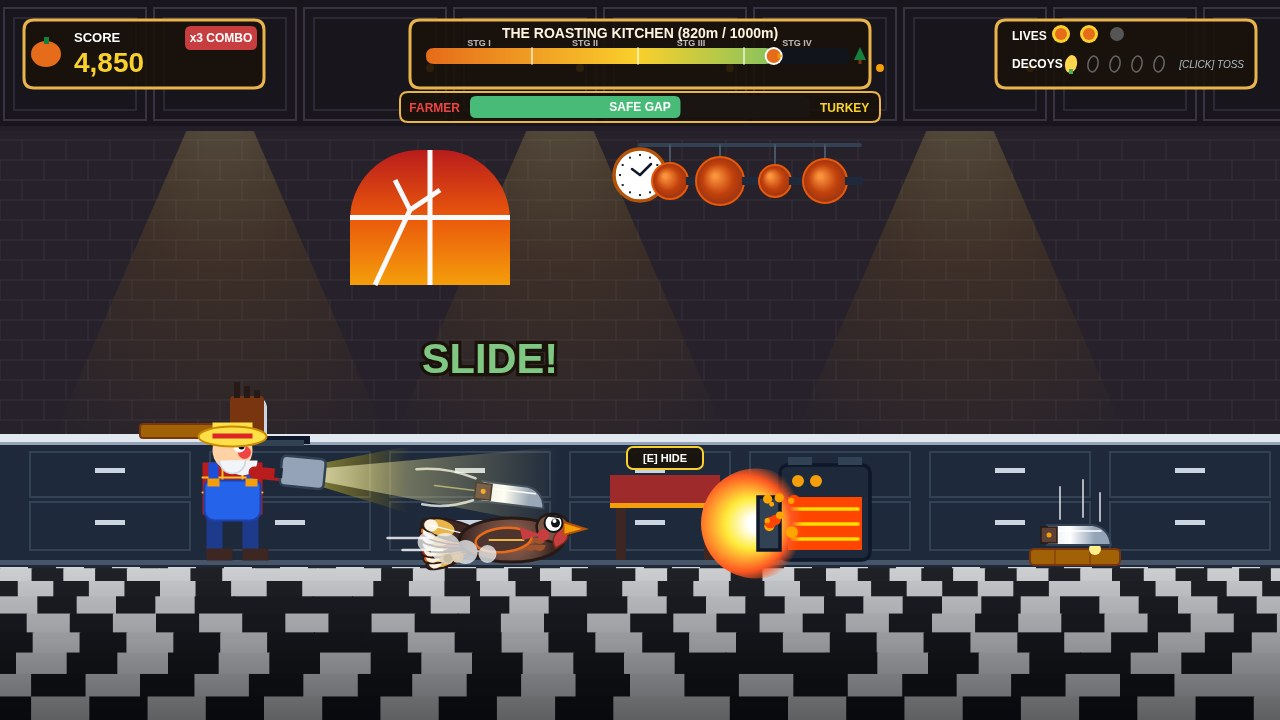
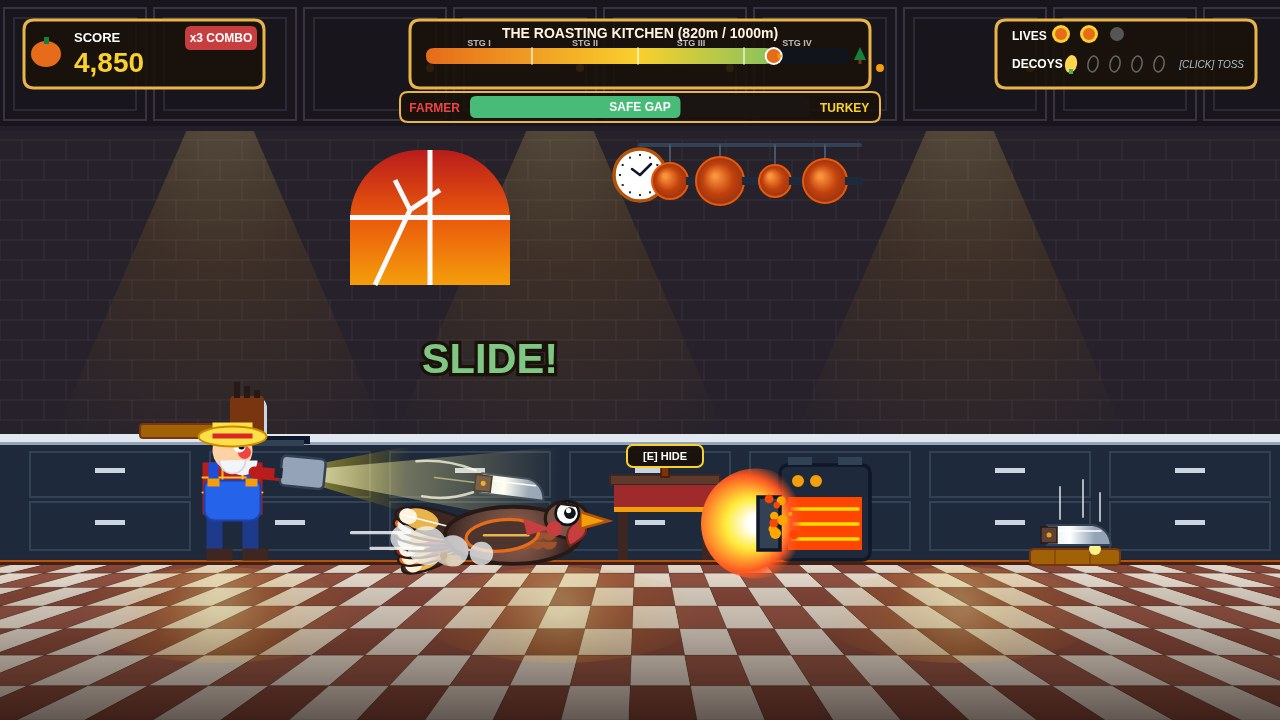
Kitchen perspective floor, end-screen tablecloth, larger sliding turkey

Changed region(s): [[0.0, 0.6111, 1.0, 1.0]]

diff --git a/game/src/screens.js b/game/src/screens.js
@@ -597,18 +597,19 @@ export function createScreens() {
       ctx.restore();
 
       // 3. Banquet Table Surface (y: tableY to FIELD.height)
-      // Linen tablecloth gradient
+      // Warm Linen tablecloth with gradient
       const tableGrad = ctx.createLinearGradient(0, tableY, 0, FIELD.height);
       tableGrad.addColorStop(0, '#FFFBEB');
-      tableGrad.addColorStop(0.3, '#FEF3C7');
-      tableGrad.addColorStop(1, '#FDE68A');
+      tableGrad.addColorStop(0.35, '#FDE68A');
+      tableGrad.addColorStop(0.75, '#F59E0B');
+      tableGrad.addColorStop(1, '#D97706');
       ctx.fillStyle = tableGrad;
       ctx.fillRect(0, tableY, FIELD.width, FIELD.height - tableY);
 
-      // Damask jacquard diamond weave pattern on tablecloth
-      ctx.strokeStyle = 'rgba(217, 119, 6, 0.10)';
-      ctx.lineWidth = 1;
-      for (let d = -FIELD.height; d < FIELD.width; d += 32) {
+      // Clearly visible diamond weave / jacquard plaid pattern in warm orange/terracotta
+      ctx.strokeStyle = 'rgba(180, 83, 9, 0.32)';
+      ctx.lineWidth = 2.5;
+      for (let d = -FIELD.height; d < FIELD.width + 400; d += 36) {
         ctx.beginPath();
         ctx.moveTo(d, tableY);
         ctx.lineTo(d + 400, tableY + 400);
@@ -616,6 +617,22 @@ export function createScreens() {
         ctx.beginPath();
         ctx.moveTo(d + 400, tableY);
         ctx.lineTo(d, tableY + 400);
+        ctx.stroke();
+      }
+
+      // Secondary fine plaid check lines
+      ctx.strokeStyle = 'rgba(234, 88, 12, 0.22)';
+      ctx.lineWidth = 1.5;
+      for (let tx = 0; tx < FIELD.width; tx += 36) {
+        ctx.beginPath();
+        ctx.moveTo(tx, tableY);
+        ctx.lineTo(tx, FIELD.height);
+        ctx.stroke();
+      }
+      for (let ty = tableY; ty < FIELD.height; ty += 28) {
+        ctx.beginPath();
+        ctx.moveTo(0, ty);
+        ctx.lineTo(FIELD.width, ty);
         ctx.stroke();
       }
 
@@ -637,6 +654,31 @@ export function createScreens() {
       // Silver Candelabra on far left
       const canX = 85;
       const canY = tableY + 60;
+
+      // Soft warm radial candle-glow gradient on tablecloth surface
+      const candleTableGlow = ctx.createRadialGradient(canX + 30, canY - 20, 15, canX + 220, canY + 120, 520);
+      candleTableGlow.addColorStop(0, 'rgba(254, 240, 138, 0.60)');
+      candleTableGlow.addColorStop(0.35, 'rgba(245, 158, 11, 0.30)');
+      candleTableGlow.addColorStop(0.7, 'rgba(217, 119, 6, 0.12)');
+      candleTableGlow.addColorStop(1, 'rgba(217, 119, 6, 0)');
+      ctx.fillStyle = candleTableGlow;
+      ctx.fillRect(0, tableY, FIELD.width, FIELD.height - tableY);
+
+      // Rich table shading gradient toward bottom edge
+      const tableShade = ctx.createLinearGradient(0, tableY + 80, 0, FIELD.height);
+      tableShade.addColorStop(0, 'rgba(69, 26, 3, 0)');
+      tableShade.addColorStop(0.5, 'rgba(69, 26, 3, 0.24)');
+      tableShade.addColorStop(1, 'rgba(42, 15, 8, 0.60)');
+      ctx.fillStyle = tableShade;
+      ctx.fillRect(0, tableY + 80, FIELD.width, FIELD.height - (tableY + 80));
+
+      // Drop shadows under candelabra and dishes
+      ctx.fillStyle = 'rgba(30, 10, 5, 0.38)';
+      ctx.beginPath();
+      ctx.ellipse(canX, canY + 16, 36, 12, 0, 0, Math.PI * 2);
+      ctx.fill();
+
+      // Candelabra metal body
       ctx.fillStyle = '#CBD5E1';
       ctx.fillRect(canX - 4, canY - 50, 8, 50);
       ctx.fillRect(canX - 25, canY - 30, 50, 6);
@@ -646,14 +688,6 @@ export function createScreens() {
       ctx.fillRect(canX - 25, canY - 65, 4, 20);
       ctx.fillRect(canX - 2, canY - 70, 4, 20);
       ctx.fillRect(canX + 21, canY - 65, 4, 20);
-
-      // Radial candle glow spreading across the banquet table
-      const candleTableGlow = ctx.createRadialGradient(canX, canY - 60, 15, canX + 200, canY + 100, 420);
-      candleTableGlow.addColorStop(0, 'rgba(254, 240, 138, 0.28)');
-      candleTableGlow.addColorStop(0.4, 'rgba(245, 158, 11, 0.12)');
-      candleTableGlow.addColorStop(1, 'rgba(245, 158, 11, 0)');
-      ctx.fillStyle = candleTableGlow;
-      ctx.fillRect(0, tableY, FIELD.width, FIELD.height - tableY);
 
       // Candle flames
       for (let fx of [canX - 23, canX, canX + 23]) {
@@ -669,10 +703,12 @@ export function createScreens() {
       }
 
       // Golden Gravy Boat with ladle at x = 165, y = 585
-      ctx.fillStyle = 'rgba(0, 0, 0, 0.14)';
+      // Drop shadow
+      ctx.fillStyle = 'rgba(30, 10, 5, 0.38)';
       ctx.beginPath();
-      ctx.ellipse(175, 595, 50, 14, 0, 0, Math.PI * 2);
+      ctx.ellipse(175, 604, 56, 16, 0, 0, Math.PI * 2);
       ctx.fill();
+
       ctx.fillStyle = '#D97706';
       ctx.beginPath();
       ctx.ellipse(175, 582, 50, 20, 0, 0, Math.PI * 2);
@@ -688,10 +724,12 @@ export function createScreens() {
       ctx.fill();
 
       // Autumn Roast Veggies Platter at x = 430, y = 595
-      ctx.fillStyle = 'rgba(0, 0, 0, 0.15)';
+      // Drop shadow
+      ctx.fillStyle = 'rgba(30, 10, 5, 0.38)';
       ctx.beginPath();
-      ctx.ellipse(430, 606, 68, 18, 0, 0, Math.PI * 2);
+      ctx.ellipse(430, 614, 76, 20, 0, 0, Math.PI * 2);
       ctx.fill();
+
       ctx.fillStyle = '#E2E8F0';
       ctx.beginPath();
       ctx.ellipse(430, 595, 68, 22, 0, 0, Math.PI * 2);
@@ -710,10 +748,12 @@ export function createScreens() {
       ctx.fillRect(436, 576, 26, 7);
 
       // Large Pumpkin Pie with whipped cream swirl at x = 625, y = 590
-      ctx.fillStyle = 'rgba(0, 0, 0, 0.15)';
+      // Drop shadow
+      ctx.fillStyle = 'rgba(30, 10, 5, 0.38)';
       ctx.beginPath();
-      ctx.ellipse(625, 602, 60, 18, 0, 0, Math.PI * 2);
+      ctx.ellipse(625, 608, 66, 18, 0, 0, Math.PI * 2);
       ctx.fill();
+
       ctx.fillStyle = '#92400E';
       ctx.beginPath();
       ctx.ellipse(625, 592, 58, 20, 0, 0, Math.PI * 2);
@@ -731,10 +771,12 @@ export function createScreens() {
       ctx.fill();
 
       // Sparkling Cider Mug at x = 725, y = 555
-      ctx.fillStyle = 'rgba(0, 0, 0, 0.14)';
+      // Drop shadow
+      ctx.fillStyle = 'rgba(30, 10, 5, 0.35)';
       ctx.beginPath();
-      ctx.ellipse(735, 596, 20, 8, 0, 0, Math.PI * 2);
+      ctx.ellipse(735, 600, 26, 10, 0, 0, Math.PI * 2);
       ctx.fill();
+
       ctx.fillStyle = '#E2E8F0';
       ctx.fillRect(723, 545, 24, 45);
       ctx.fillStyle = '#F59E0B';
@@ -752,9 +794,9 @@ export function createScreens() {
       const platterY = 485;
 
       // Soft shadow under platter
-      ctx.fillStyle = 'rgba(0, 0, 0, 0.22)';
+      ctx.fillStyle = 'rgba(30, 10, 5, 0.40)';
       ctx.beginPath();
-      ctx.ellipse(platterX, platterY + 16, 165, 28, 0, 0, Math.PI * 2);
+      ctx.ellipse(platterX, platterY + 18, 172, 32, 0, 0, Math.PI * 2);
       ctx.fill();
 
       // Large Polished Silver Platter

diff --git a/game/src/backgrounds.js b/game/src/backgrounds.js
@@ -655,52 +655,82 @@ export function createBackgrounds() {
     // ==========================================
     drawGround(ctx, width, height, groundY, scrollX, theme) {
       if (theme === 'kitchen') {
-        // True Perspective Checkered Floor (shrinking towards back, darker towards foreground)
+        // True Perspective Checkered Floor (converging to vanishing point, shrinking towards counter, darker towards bottom)
         const totalH = height - groundY;
-        const rows = 9;
+        const vpX = width / 2; // 640
+        const vpY = groundY - 140; // 430
+        const distBottom = height - vpY; // 290
+        const rows = 8;
+        const colWBottom = 68;
+        const offset = ((scrollX * 0.45) % colWBottom + colWBottom) % colWBottom;
 
+        // Draw quadrilateral tiles row by row from back to front
         for (let r = 0; r < rows; r++) {
-          // Perspective depth progress: 0 at back (groundY), 1 at bottom (height)
-          const p1 = r / rows;
-          const p2 = (r + 1) / rows;
-          // Exponential perspective spacing: smaller in distance, larger up close
-          const y1 = groundY + Math.pow(p1, 1.35) * totalH;
-          const y2 = groundY + Math.pow(p2, 1.35) * totalH;
-          const rowHeight = y2 - y1;
+          const t1 = Math.pow(r / rows, 1.8);
+          const t2 = Math.pow((r + 1) / rows, 1.8);
+          const y1 = groundY + t1 * totalH;
+          const y2 = groundY + t2 * totalH;
 
-          // Tile width also expands with perspective
-          const tileW = 28 + p1 * 34;
-          const offset = (scrollX * (0.8 + p1 * 0.4)) % (tileW * 2);
+          const ratio1 = (y1 - vpY) / distBottom;
+          const ratio2 = (y2 - vpY) / distBottom;
 
-          for (let x = -offset - tileW * 2; x < width + tileW * 2; x += tileW) {
-            const col = Math.floor((x + offset) / tileW);
-            const isWhite = (col + r) % 2 === 0;
+          // Muted warm tile colours: cream and terracotta
+          const creamColor = r % 2 === 0 ? '#EFE4D6' : '#E8DDD0';
+          const terracottaColor = r % 2 === 0 ? '#965545' : '#88493B';
 
-            // Shaded perspective: tiles get darker towards bottom, avoiding harsh contrast
-            if (isWhite) {
-              const lum = Math.floor(226 - p1 * 60);
-              ctx.fillStyle = `rgb(${lum}, ${lum + 2}, ${lum + 6})`;
-            } else {
-              const lum = Math.floor(36 - p1 * 22);
-              ctx.fillStyle = `rgb(${lum}, ${lum + 2}, ${lum + 8})`;
-            }
-            ctx.fillRect(x, y1, tileW + 1, rowHeight + 1);
+          // Span from offscreen-left to offscreen-right
+          const minCol = Math.floor((-vpX) / (colWBottom * ratio2)) - 2;
+          const maxCol = Math.ceil((width - vpX) / (colWBottom * ratio2)) + 2;
+
+          for (let c = minCol; c <= maxCol; c++) {
+            const isCream = ((c + r) % 2 + 2) % 2 === 0;
+            ctx.fillStyle = isCream ? creamColor : terracottaColor;
+
+            const x1L = vpX + (c * colWBottom - offset) * ratio1;
+            const x1R = vpX + ((c + 1) * colWBottom - offset) * ratio1;
+            const x2R = vpX + ((c + 1) * colWBottom - offset) * ratio2;
+            const x2L = vpX + (c * colWBottom - offset) * ratio2;
+
+            ctx.beginPath();
+            ctx.moveTo(x1L, y1);
+            ctx.lineTo(x1R, y1);
+            ctx.lineTo(x2R, y2);
+            ctx.lineTo(x2L, y2);
+            ctx.closePath();
+            ctx.fill();
+
+            // Subtle grout line between tiles
+            ctx.strokeStyle = 'rgba(60, 30, 20, 0.15)';
+            ctx.lineWidth = 1;
+            ctx.stroke();
           }
         }
 
-        // Perspective shadow overlay towards bottom of screen
-        const floorShadow = ctx.createLinearGradient(0, groundY, 0, height);
-        floorShadow.addColorStop(0, 'rgba(0, 0, 0, 0.05)');
-        floorShadow.addColorStop(0.5, 'rgba(0, 0, 0, 0.22)');
-        floorShadow.addColorStop(1, 'rgba(0, 0, 0, 0.45)');
-        ctx.fillStyle = floorShadow;
+        // Darkening gradient overlay toward the bottom edge
+        const floorDarken = ctx.createLinearGradient(0, groundY, 0, height);
+        floorDarken.addColorStop(0, 'rgba(25, 12, 8, 0.02)');
+        floorDarken.addColorStop(0.45, 'rgba(25, 12, 8, 0.25)');
+        floorDarken.addColorStop(1, 'rgba(15, 6, 4, 0.62)');
+        ctx.fillStyle = floorDarken;
         ctx.fillRect(0, groundY, width, totalH);
 
+        // Soft warm reflections of the 3 ceiling lamp pools on the floor
+        for (let lx of [220, 560, 960]) {
+          const lampGlow = ctx.createRadialGradient(lx, groundY + 45, 10, lx, groundY + 55, 140);
+          lampGlow.addColorStop(0, 'rgba(254, 240, 138, 0.28)');
+          lampGlow.addColorStop(0.45, 'rgba(245, 158, 11, 0.10)');
+          lampGlow.addColorStop(1, 'rgba(245, 158, 11, 0)');
+          ctx.fillStyle = lampGlow;
+          ctx.beginPath();
+          ctx.ellipse(lx, groundY + 55, 140, 48, 0, 0, Math.PI * 2);
+          ctx.fill();
+        }
+
         // Top Floor Kickplate / Molding
-        ctx.fillStyle = '#475569';
+        ctx.fillStyle = '#452015';
         ctx.fillRect(0, groundY, width, 5);
-        ctx.fillStyle = '#1E293B';
-        ctx.fillRect(0, groundY + 5, width, 2);
+        ctx.fillStyle = '#B45309';
+        ctx.fillRect(0, groundY, width, 2);
       } else if (theme === 'farm') {
         // Natural Dirt Path with rich dark earth texture
         const dirtGrad = ctx.createLinearGradient(0, groundY, 0, height);

diff --git a/game/src/render.js b/game/src/render.js
@@ -266,6 +266,8 @@ export function createRenderer(canvas) {
 
     drawTurkeySliding(turkey) {
       ctx.save();
+      ctx.scale(1.3, 1.3);
+      ctx.translate(0, -5);
 
       // 1. Full Fanned Tail Feathers (Tucked & Streaming Behind in Autumn Bands)
       const tailColors = [PALETTE.deepBrown, PALETTE.cranberry, PALETTE.pumpkin, PALETTE.mustard, PALETTE.warmCream];
@@ -813,30 +815,46 @@ export function createRenderer(canvas) {
         ctx.fillRect(0, 12, obs.width, 8);
         ctx.fillRect(0, obs.height - 20, obs.width, 8);
       } else {
-        // Banquet Dining Table with draped autumn tablecloth
+        // Banquet Kitchen Dining Table with thick tabletop & draped autumn cloth
+        // Solid wooden tabletop
+        ctx.fillStyle = '#5D3A2C';
+        ctx.fillRect(0, 0, obs.width, 10);
+        ctx.strokeStyle = '#3E2723';
+        ctx.lineWidth = 2;
+        ctx.strokeRect(0, 0, obs.width, 10);
+
+        // Draped tablecloth
         ctx.fillStyle = PALETTE.cranberry;
-        ctx.fillRect(0, 0, obs.width, 28);
+        ctx.fillRect(4, 10, obs.width - 8, 22);
         ctx.fillStyle = '#F59E0B';
-        ctx.fillRect(0, 28, obs.width, 5); // gold cloth fringe
+        ctx.fillRect(4, 32, obs.width - 8, 5); // gold cloth fringe
+
         // Table legs
         ctx.fillStyle = '#3E2723';
-        ctx.fillRect(6, 33, 10, obs.height - 33);
-        ctx.fillRect(obs.width - 16, 33, 10, obs.height - 33);
+        ctx.fillRect(8, 37, 10, obs.height - 37);
+        ctx.fillRect(obs.width - 18, 37, 10, obs.height - 37);
       }
 
-      // Hide indicator prompt badge (NO EMOJI)
-      ctx.fillStyle = 'rgba(26, 18, 11, 0.9)';
+      // Wooden mounting bracket firmly attaching badge to table top
+      ctx.fillStyle = '#78350F';
+      ctx.fillRect(obs.width / 2 - 4, -8, 8, 10);
+      ctx.strokeStyle = '#451A03';
+      ctx.lineWidth = 1.5;
+      ctx.strokeRect(obs.width / 2 - 4, -8, 8, 10);
+
+      // Hide indicator prompt badge attached directly above table
+      ctx.fillStyle = 'rgba(26, 18, 11, 0.95)';
       ctx.strokeStyle = PALETTE.gold;
       ctx.lineWidth = 2;
       ctx.beginPath();
-      ctx.roundRect(obs.width / 2 - 38, -28, 76, 22, 6);
+      ctx.roundRect(obs.width / 2 - 38, -30, 76, 22, 6);
       ctx.fill();
       ctx.stroke();
 
       ctx.fillStyle = '#FFFFFF';
       ctx.font = '900 11px sans-serif';
       ctx.textAlign = 'center';
-      ctx.fillText('[E] HIDE', obs.width / 2, -13);
+      ctx.fillText('[E] HIDE', obs.width / 2, -15);
     },
 
     drawRollingPin(obs) {

diff --git a/game/src/shots.js b/game/src/shots.js
@@ -155,7 +155,7 @@ export function stageShot(name, world) {
       flying: true,
       rot: 0.12,
       x: 480,
-      y: FIELD.groundY - 78,
+      y: FIELD.groundY - 86,
       width: 58,
       height: 25,
       scoredCloseShave: true,
